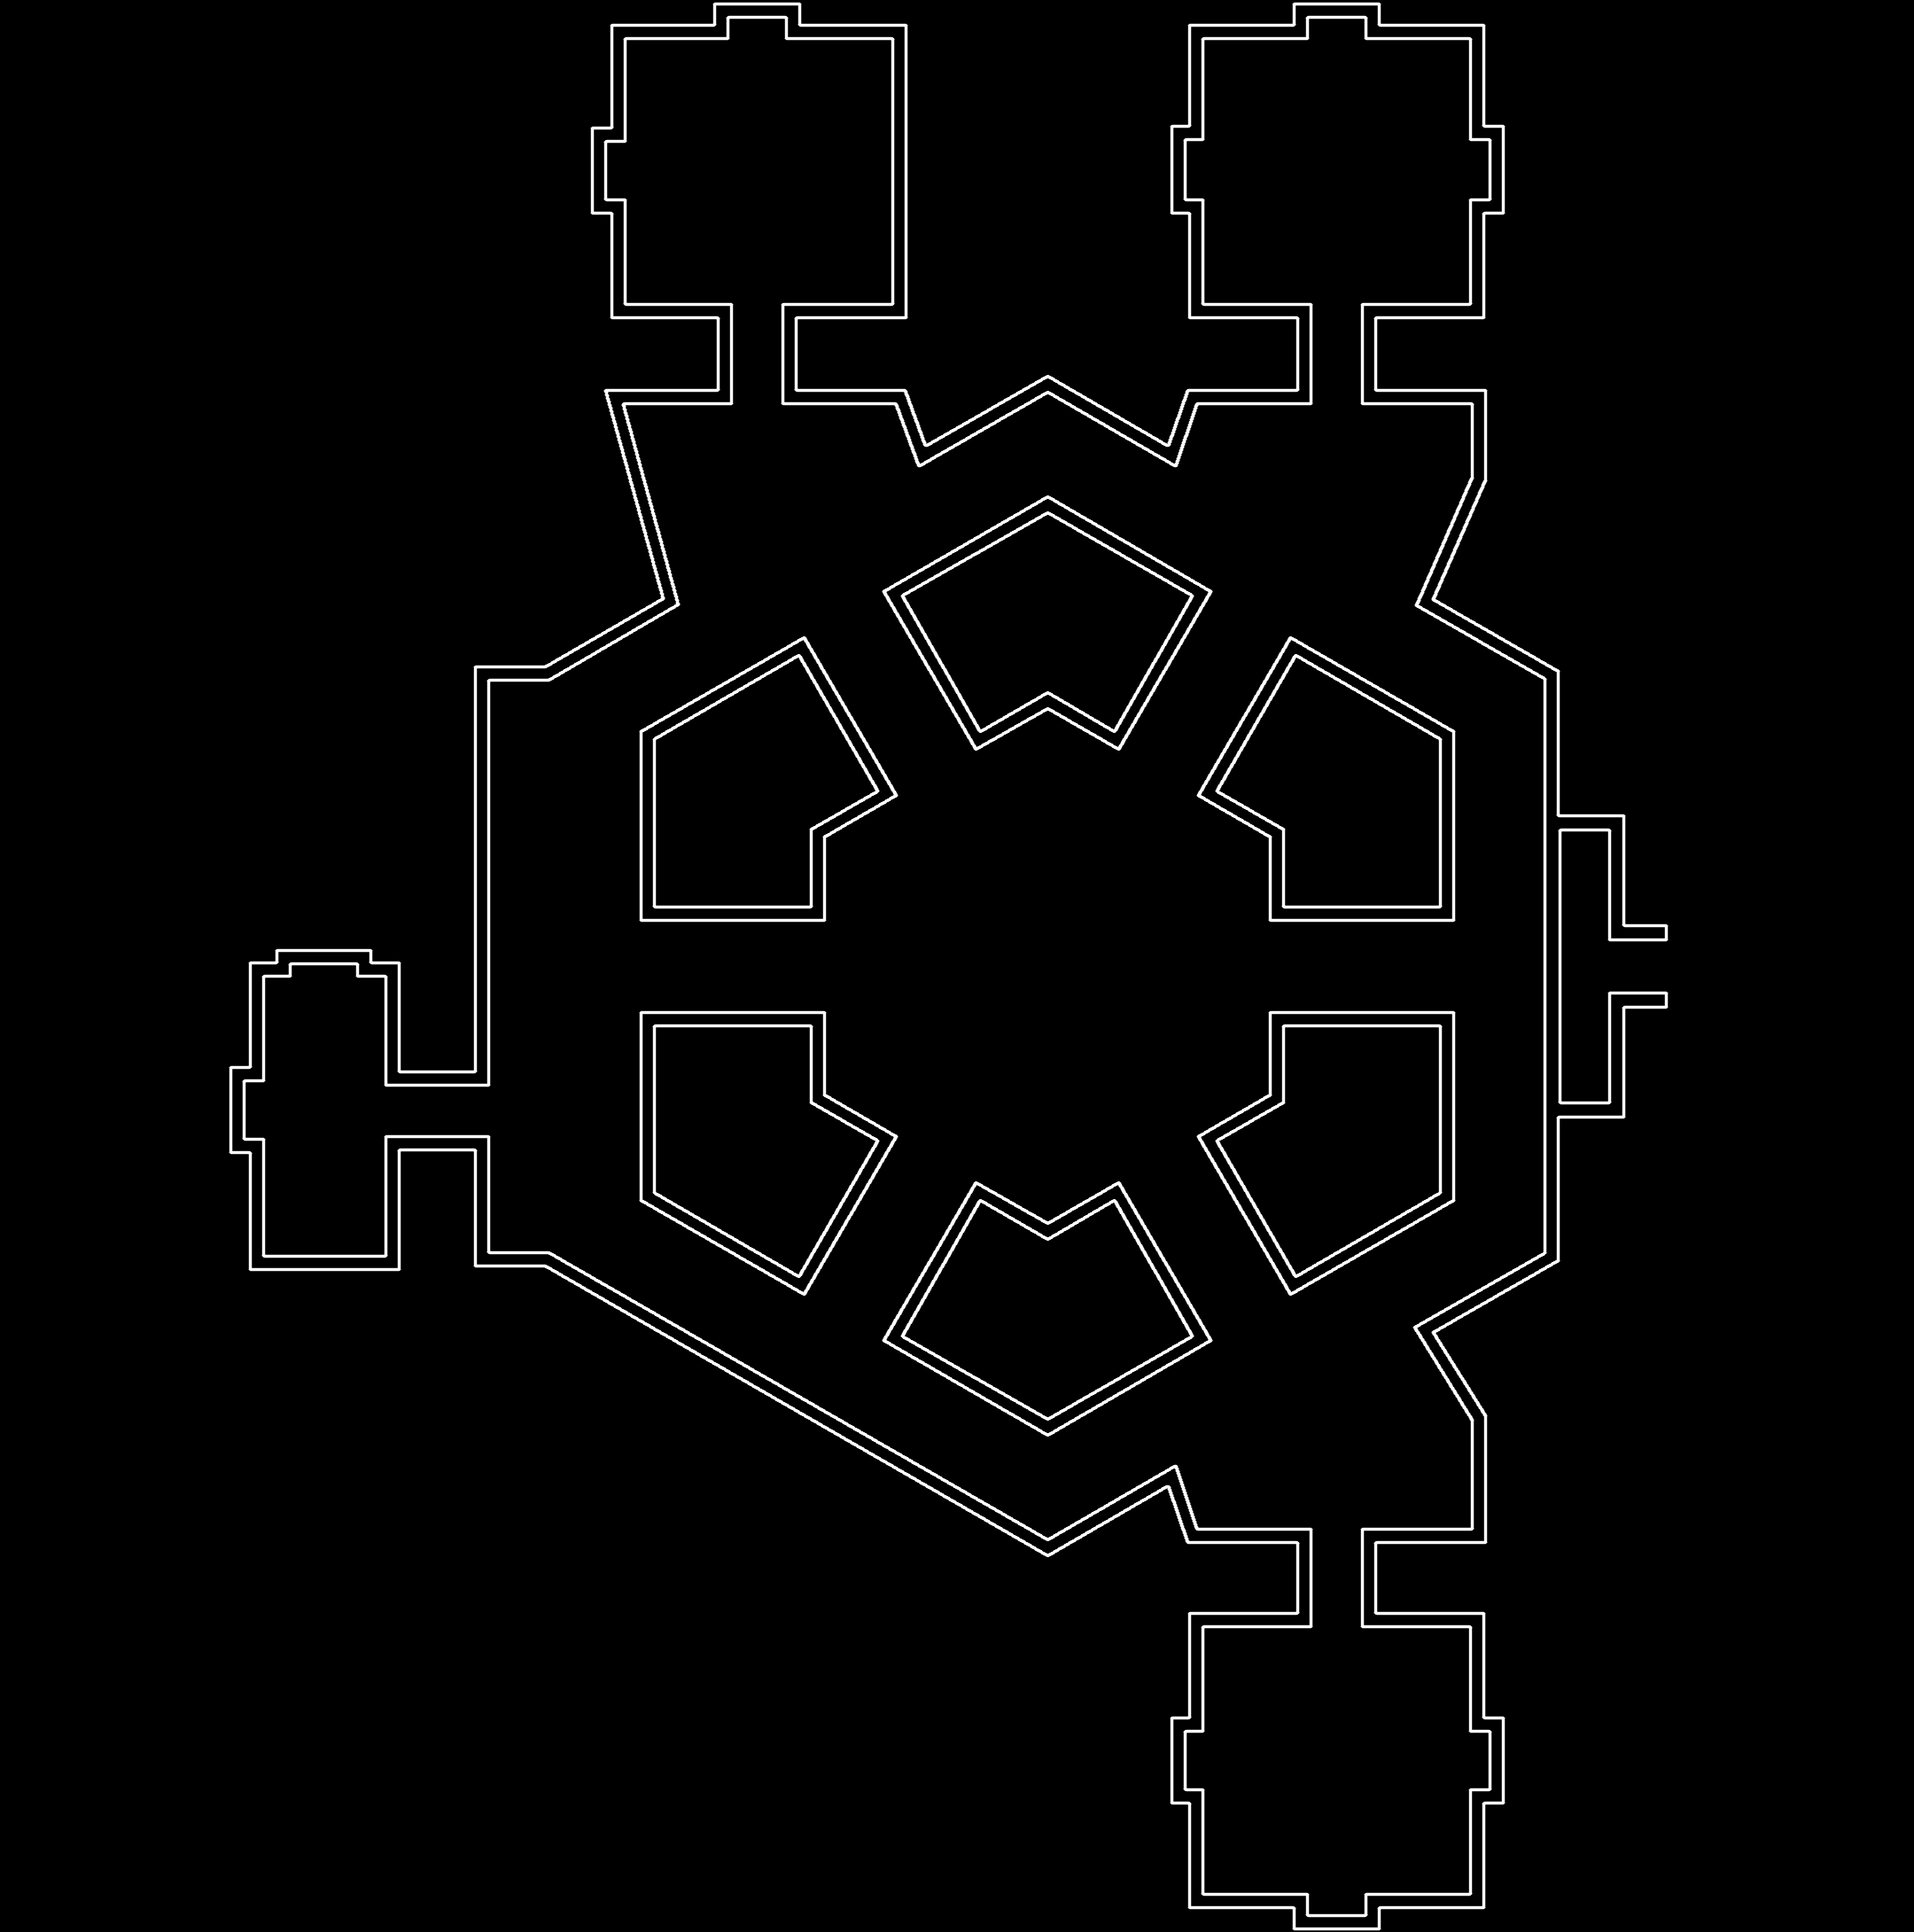
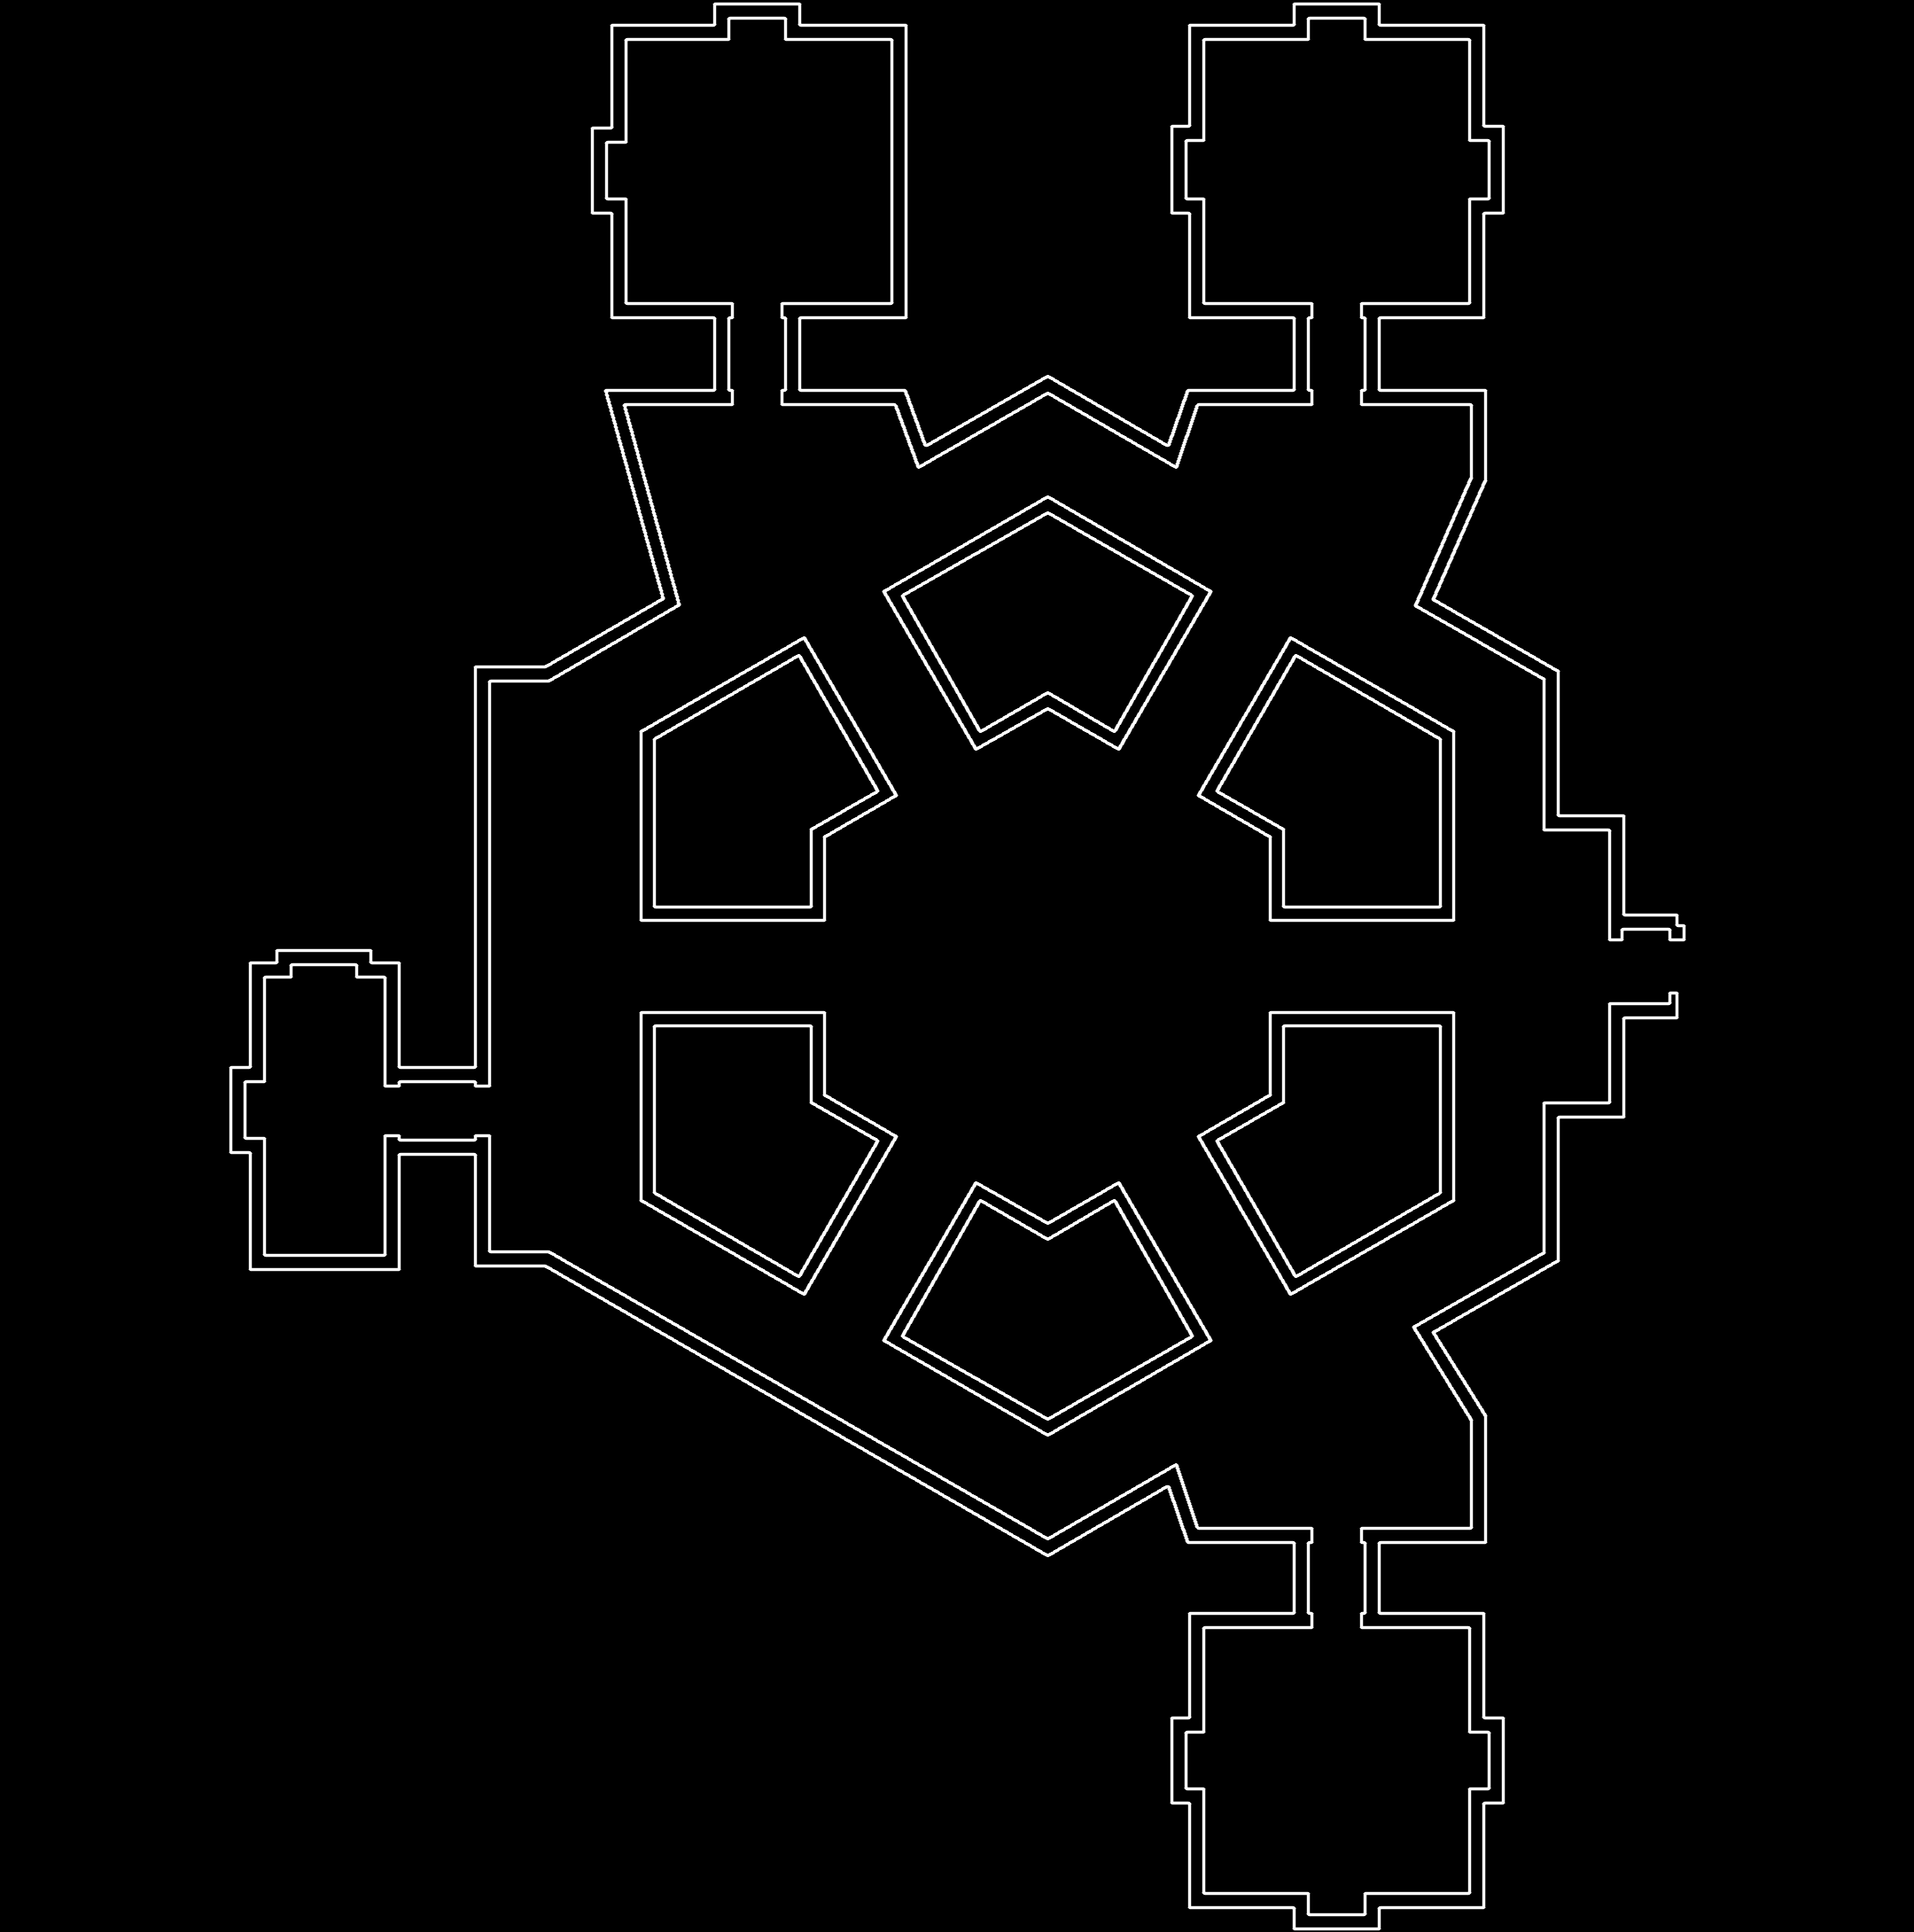
v13.23: hex hub doorways framed, east side opened
Claude-Session: https://claude.ai/code/session_01SinQW9aeLHqCBjq9e21Gyo

diff --git a/web_shell.html b/web_shell.html
@@ -4,8 +4,8 @@
 <meta charset="utf-8">
 <meta name="viewport" content="width=device-width,initial-scale=1,maximum-scale=1,user-scalable=no,viewport-fit=cover">
 <meta name="theme-color" content="#f6f9fc">
-<meta name="hl-version" content="v13.22">
-<title>Homelancer Digital v13.22</title>
+<meta name="hl-version" content="v13.23">
+<title>Homelancer Digital v13.23</title>
 <style>
 *{box-sizing:border-box}
 html,body{margin:0;width:100%;height:100%;background:#f6f9fc;color:#0e2f5a;font:16px system-ui,sans-serif;overflow:hidden;touch-action:none}

diff --git a/tools/trace/hub_hex_01/eng/build_plan.py b/tools/trace/hub_hex_01/eng/build_plan.py
@@ -22,10 +22,18 @@ spokes = unary_union([affinity.rotate(LineString([(CX, CY), (CX + 400, CY)]), a,
                       for a in range(0, 360, 60)])
 courts = hexagon(R_I).difference(hexagon(R_C)).difference(spokes)
 
-def passage(x0, y0, x1, y1):   # a corridor one door wide (clear DOOR between walls), centred in the map's corridor
+DOORS = []   # (centre, direction of travel, wall span): a wall across with one standard door in it
+def passage(x0, y0, x1, y1, ends=(True, True)):
+    """a corridor at the map's width (wall centres on its lines) with a framed standard door at each end"""
     if abs(x1 - x0) < abs(y1 - y0):
-        xc = (x0 + x1) / 2; return box(xc - (DOOR + T) / 2, y0, xc + (DOOR + T) / 2, y1)
-    yc = (y0 + y1) / 2; return box(x0, yc - (DOOR + T) / 2, x1, yc + (DOOR + T) / 2)
+        xc = (x0 + x1) / 2; w = x1 - x0
+        for e, y in zip(ends, (y0, y1)):
+            if e: DOORS.append(((xc, y), (0, 1), w + T))
+        return box(x0, y0 - 6, x1, y1 + 6)
+    yc = (y0 + y1) / 2; w = y1 - y0
+    for e, x in zip(ends, (x0, x1)):
+        if e: DOORS.append(((x, yc), (1, 0), w + T))
+    return box(x0 - 6, y0, x1 + 6, y1)
 
 def room(x0, y0, x1, y1, bumps):
     return unary_union([box(x0, y0, x1, y1)] + [box(*b) for b in bumps])
@@ -36,13 +44,13 @@ parts = [
     Polygon([(347, 224), (508, 224), (520, 257), (378, 337)]),       # north-west wing
     Polygon([(673, 224), (834, 224), (834, 270), (805, 337), (662, 257)]),   # north-east wing
     Polygon([(673, 866), (834, 866), (834, 800), (805, 753), (662, 833)]),   # south-east wing
-    box(876, 464, 912, 626),                                          # east bay
-    passage(912, 526, 946, 564),                                      # east exit (open at its end)
+    box(860, 464, 912, 626),                                          # east bay
+    passage(912, 526, 946, 564, (True, False)), box(940, 526, 975, 564),                                      # east exit (open at its end)
     room(349, 18, 507, 175, [(338, 76, 349, 116), (407, 6, 447, 18)]),            # north-west room
     room(675, 18, 833, 175, [(665, 75, 675, 116), (833, 75, 844, 116), (734, 6, 774, 18)]),   # north-east room
     room(675, 914, 833, 1072, [(665, 973, 675, 1013), (833, 973, 844, 1013), (734, 1072, 774, 1084)]),  # south-east room
     room(145, 547, 221, 712, [(134, 606, 145, 646), (160, 540, 205, 547)]),       # west room
-    passage(407, 170, 447, 229), passage(734, 170, 774, 229), passage(734, 861, 774, 919), passage(216, 606, 277, 647),
+    passage(407, 175, 447, 224), passage(734, 175, 774, 224), passage(734, 866, 774, 914), passage(221, 606, 272, 647),
 ]
 def into_ring(poly):   # wing corners that sit on the ring's edge are pushed 12 px into the ring along their own wall line
     pts = list(poly.exterior.coords)[:-1]; n = len(pts); out = []
@@ -54,13 +62,20 @@ def into_ring(poly):   # wing corners that sit on the ring's edge are pushed 12 
     return Polygon(out)
 floor = unary_union([into_ring(pp) if i in (2, 3, 4) else pp for i, pp in enumerate(parts)]).difference(courts)
 walls = floor.buffer(T / 2, join_style=2).difference(floor.buffer(-T / 2, join_style=2))
-walls = walls.difference(box(940, 526 - 20, 960, 564 + 20))      # the east exit stays open
+walls = walls.difference(box(946, 526 - 20, 1000, 564 + 20))      # the east exit stays open
+def door_wall(p, n, span):
+    n = np.array(n, float) / np.linalg.norm(n); t = np.array([-n[1], n[0]])
+    return unary_union([LineString([tuple(np.array(p) + t * a), tuple(np.array(p) + t * b)]).buffer(T / 2, cap_style=2)
+                        for a, b in ((-span / 2, -DOOR / 2), (DOOR / 2, span / 2))])
+walls = unary_union([walls] + [door_wall(*d) for d in DOORS])
 
 c = cv2.imread(os.path.join(HERE, "..", "source_crop.png")); S = 2; H, Wd = c.shape[:2]
 mask = np.zeros((H * S, Wd * S), np.uint8)
-for p in getattr(walls, "geoms", [walls]):
-    cv2.fillPoly(mask, [np.array([(x * S, y * S) for x, y in p.exterior.coords], np.int32)], 255)
-    for r in p.interiors: cv2.fillPoly(mask, [np.array([(x * S, y * S) for x, y in r.coords], np.int32)], 0)
+for p in getattr(walls, "geoms", [walls]):   # each piece on its own layer, so one piece's holes never erase another
+    m1 = np.zeros_like(mask)
+    cv2.fillPoly(m1, [np.array([(x * S, y * S) for x, y in p.exterior.coords], np.int32)], 255)
+    for r in p.interiors: cv2.fillPoly(m1, [np.array([(x * S, y * S) for x, y in r.coords], np.int32)], 0)
+    mask |= m1
 cs, _ = cv2.findContours(mask, cv2.RETR_CCOMP, cv2.CHAIN_APPROX_SIMPLE)
 plan = np.zeros((H * S, Wd * S, 3), np.uint8); ov = cv2.resize((c * 0.55).astype(np.uint8), None, fx=S, fy=S)
 for im in (plan, ov): cv2.drawContours(im, cs, -1, (255, 255, 255), 2, cv2.LINE_AA)

diff --git a/tools/trace/temple_02/eng/build_plan.py b/tools/trace/temple_02/eng/build_plan.py
@@ -74,9 +74,11 @@ walls = unary_union([top_walls, affinity.scale(top_walls, yfact=-1, origin=(0, C
 c = cv2.imread(SRC); S = 2
 H, Wd = c.shape[:2]
 mask = np.zeros((H * S, Wd * S), np.uint8)
-for p in getattr(walls, "geoms", [walls]):
-    cv2.fillPoly(mask, [np.array([(x * S, y * S) for x, y in p.exterior.coords], np.int32)], 255)
-    for r in p.interiors: cv2.fillPoly(mask, [np.array([(x * S, y * S) for x, y in r.coords], np.int32)], 0)
+for p in getattr(walls, "geoms", [walls]):   # each piece on its own layer, so one piece's holes never erase another
+    m1 = np.zeros_like(mask)
+    cv2.fillPoly(m1, [np.array([(x * S, y * S) for x, y in p.exterior.coords], np.int32)], 255)
+    for r in p.interiors: cv2.fillPoly(m1, [np.array([(x * S, y * S) for x, y in r.coords], np.int32)], 0)
+    mask |= m1
 cs, _ = cv2.findContours(mask, cv2.RETR_CCOMP, cv2.CHAIN_APPROX_SIMPLE)
 plan = np.zeros((H * S, Wd * S, 3), np.uint8); ov = cv2.resize((c * 0.55).astype(np.uint8), None, fx=S, fy=S)
 for im in (plan, ov): cv2.drawContours(im, cs, -1, (255, 255, 255), 2, cv2.LINE_AA)

diff --git a/docs/V1.2_BUILD.md b/docs/V1.2_BUILD.md
@@ -2148,3 +2148,6 @@ the camera automatically does a zoom to that section ... helmet, body, lower bod
 
 ## v13.22 — hex hub redone as a clean engineering plan (no game change)
 - `tools/trace/hub_hex_01/eng/build_plan.py`: three measured concentric hexagons (ring 328/260, centre 150), six 60-px spokes, six courts, wings, bays, four rooms and their passages one door wide; one wall thickness. plan.png, plan_on_map.jpg, plan_walls.json.
+
+## v13.23 — hex hub: doorways framed, east side opened (no game change)
+- Owner: "You forgot the doorways, and why is the right side locked off." The east bay was walled off by a 1-px gap from the ring; merged. Every corridor now has the map's width with a framed standard door at both ends; the east exit is open. Fixed a drawing bug that could erase courts (also in temple_02).
